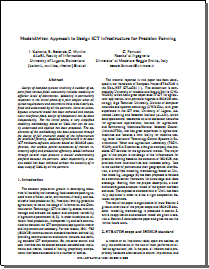
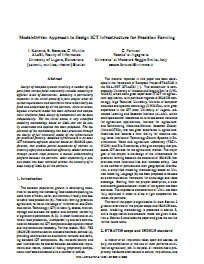
Adding publication and replacing images
A new publication has been added (although old) and the images were
replaced by others with better resolution.

diff --git a/academic.html b/academic.html
@@ -74,6 +74,30 @@
 	<hr class="divider">
 	
     <div class="container publication">
+        
+        
+        <div class="col-12 single">
+			<h3>Modeling Responsiveness of Decentralized Service Discovery in Wireless Mesh Networks</h3>
+
+			<a href="http://www.mmb2014.de/"><h5>17th International GI/ITG Conference on “Measurement, Modelling and Evaluation of Computing Systems” and “Dependability and Fault-Tolerance”, (MMB & DFT 2014)</h5></a>
+			
+			<h5><b>Authors: </b>Andreas Dittrich, Björn Lichtblau, Rafael Rezende, Miroslaw Malek</h5>
+			
+			<!-- The figure is only shown for medium and large screens -->
+			<div class="col-12 col-sm-4 hidden-sm">
+				<a href="http://link.springer.com/chapter/10.1007%2F978-3-319-05359-2_7"><img style="border: 1px solid silver;" title="Modeling Responsiveness of Decentralized Service Discovery in Wireless Mesh Networks" alt="Modeling Responsiveness of Decentralized Service Discovery in Wireless Mesh Networks" src="images/publications/mmb-dft2014.png" width="210" /></a>
+			</div>
+			
+			<div class="col-12 col-sm-8">
+			<p>In service networks, discovery plays a crucial role as a layer where providers can be published and enumerated. This work focuses on the responsiveness of the discovery layer, the probability to operate successfully within a deadline, even in the presence of faults. It proposes a hierarchy of stochastic models for decentralized discovery and uses it to describe the discovery of a single service using three popular protocols. A methodology to use the model hierarchy in wireless mesh networks is introduced. Given a pair requester and provider, a discovery protocol and a deadline, it generates specific model instances and calculates responsiveness. Furthermore, this paper introduces a new metric, the expected responsiveness distance der, to estimate the maximum distance from a provider where requesters can still discover it with a required responsiveness. Using monitoring data from the DES testbed at Freie Universität Berlin, it is shown how responsiveness and der of the protocols change depending on the position of nodes and the link qualities in the network.</p>
+			</div>
+			
+			<!-- The button is only shown for small screens -->
+			<div class="visible-sm" align="center">
+				<a href="http://link.springer.com/chapter/10.1007%2F978-3-319-05359-2_7" class="btn btn-default btn-mini">Read article</a>
+			</div>
+		</div>
+        
 	
 		<div class="col-12 single">
 			<h3>User-Perceived Instantaneous Service Availability Evaluation</h3>
@@ -84,7 +108,7 @@
 			
 			<!-- The figure is only shown for medium and large screens -->
 			<div class="col-12 col-sm-4 hidden-sm">
-				<img src="images/publications/prdc2013.png">
+				<a href="http://ieeexplore.ieee.org/xpl/articleDetails.jsp?arnumber=6820875"><img style="border: 1px solid silver;" title="User-Perceived Instantaneous Service Availability Evaluation" alt="User-Perceived Instantaneous Service Availability Evaluation" src="images/publications/prdc2013.png" width="210" /></a>
 			</div>
 			
 			<div class="col-12 col-sm-8">
@@ -103,9 +127,9 @@
 			</div>
 			
 			<!-- The button is only shown for small screens -->
-			<!-- <div class="visible-sm" align="center">
-				<button class="btn btn-default btn-mini">Read article (in progress)</a>
-			</div> -->
+			<div class="visible-sm" align="center">
+				<a href="http://ieeexplore.ieee.org/xpl/articleDetails.jsp?arnumber=6820875" class="btn btn-default btn-mini">Read article</a>
+			</div>
 		</div>
 		
 
@@ -118,7 +142,7 @@
 			
 			<!-- The figure is only shown for medium and large screens -->
 			<div class="col-12 col-sm-4 hidden-sm">
-				<a href="http://link.springer.com/chapter/10.1007%2F978-3-642-38789-0_4"><img src="images/publications/ewdc2013.png"></a>
+				<a href="http://link.springer.com/chapter/10.1007%2F978-3-642-38789-0_4"><img style="border: 1px solid silver;" title="Model-Driven Evaluation of User-Perceived Service Availability" alt="Model-Driven Evaluation of User-Perceived Service Availability" src="images/publications/ewdc2013.png" width="210"/></a>
 			</div>
 			<div class="col-12 col-sm-8">
 			<p>Service-oriented architecture (SOA) has emerged as an approach to master growing system complexity by proposing services as basic building elements of system design. However, it remains difficult to evaluate dependability of such distributed and heterogeneous functionality as it depends highly on the properties of the enabling information and communications technology (ICT) infrastructure. Moreover, every specific pair service client and provider can utilize different ICT components, constituting for the user-perceived view of a service.<br>			
@@ -141,7 +165,7 @@
 			
 			<!-- The figure is only shown for medium and large screens -->
 			<div class="col-12 col-sm-4 hidden-sm">
-				<img src="images/publications/ipdps2013.png"></a>
+				<a href="http://ieeexplore.ieee.org/xpl/login.jsp?tp=&arnumber=6651045"><img style="border: 1px solid silver;" title="A Model for Evaluation of User-Perceived Service Properties" alt="A Model for Evaluation of User-Perceived Service Properties" src="images/publications/ipdps2013.png" width="210"/></a>
 			</div>
 			
 			<div class="col-12 col-sm-8">
@@ -157,9 +181,9 @@
 			</div>
 			
 			<!-- The button is only shown for small screens -->
-			<!-- <div class="visible-sm" align="center">
-				<button class="btn btn-default btn-mini">Read article (in progress)</a>
-			</div> -->
+			<div class="visible-sm" align="center">
+				<a href="http://ieeexplore.ieee.org/xpl/login.jsp?tp=&arnumber=6651045" class="btn btn-default btn-mini">Read article</a>
+			</div>
 		</div>
 		
 		
@@ -172,7 +196,7 @@
 			
 			<!-- The figure is only shown for medium and large screens -->
 			<div class="col-12 col-sm-4 hidden-sm">
-				<a href="http://ieeexplore.ieee.org/xpl/articleDetails.jsp?arnumber=6489709"><img src="images/publications/etfa2012.png"></a>
+				<a href="http://ieeexplore.ieee.org/xpl/articleDetails.jsp?arnumber=6489709"><img style="border: 1px solid silver;" title="Model-Driven Approach to Design of ICT infrastructure for Precision Farming" alt="Model-Driven Approach to Design of ICT infrastructure for Precision Farming" src="images/publications/etfa2012.png" width="210"/></a>
 			</div>
 			<div class="col-12 col-sm-8">
 			<p>Design of complex systems involving a number of experts from various fields necessarily includes modeling at different levels of abstraction. Modeling is particularly important in the initial phase of a joint project when all system requirements and constraints have to be clearly defined and understood by all the partners. Once an unambiguous structural model has been achieved and components interfaces fixed, design of components can be done independently. For the initial phase, a very simplified modeling methodology based on UML that can be easily understood and applied has been proposed. The application of the methodology has been presented through the design of full structural model of the infrastructure for precision farming. Modeled infrastructure is an open ICT hardware-software solution based on ISOBUS specification, that enables partial automation of tractors increasing safety and production efficiency. Model achieved through several steps presents a mutual understanding platform between the partners. Most importantly, a precise model has been achieved without the necessity of in deep study of UML by all the partners.</p>
@@ -191,7 +215,7 @@
 	<!-- FOOTER -->
 	<footer>
 		<p class="pull-right"><a href="#">Back to top</a></p>
-		<p>&copy; 2014 Rafael Rezende</p>
+		<p>&copy; 2015 Rafael Rezende</p>
 	</footer>
 
     </div><!-- /.container -->
